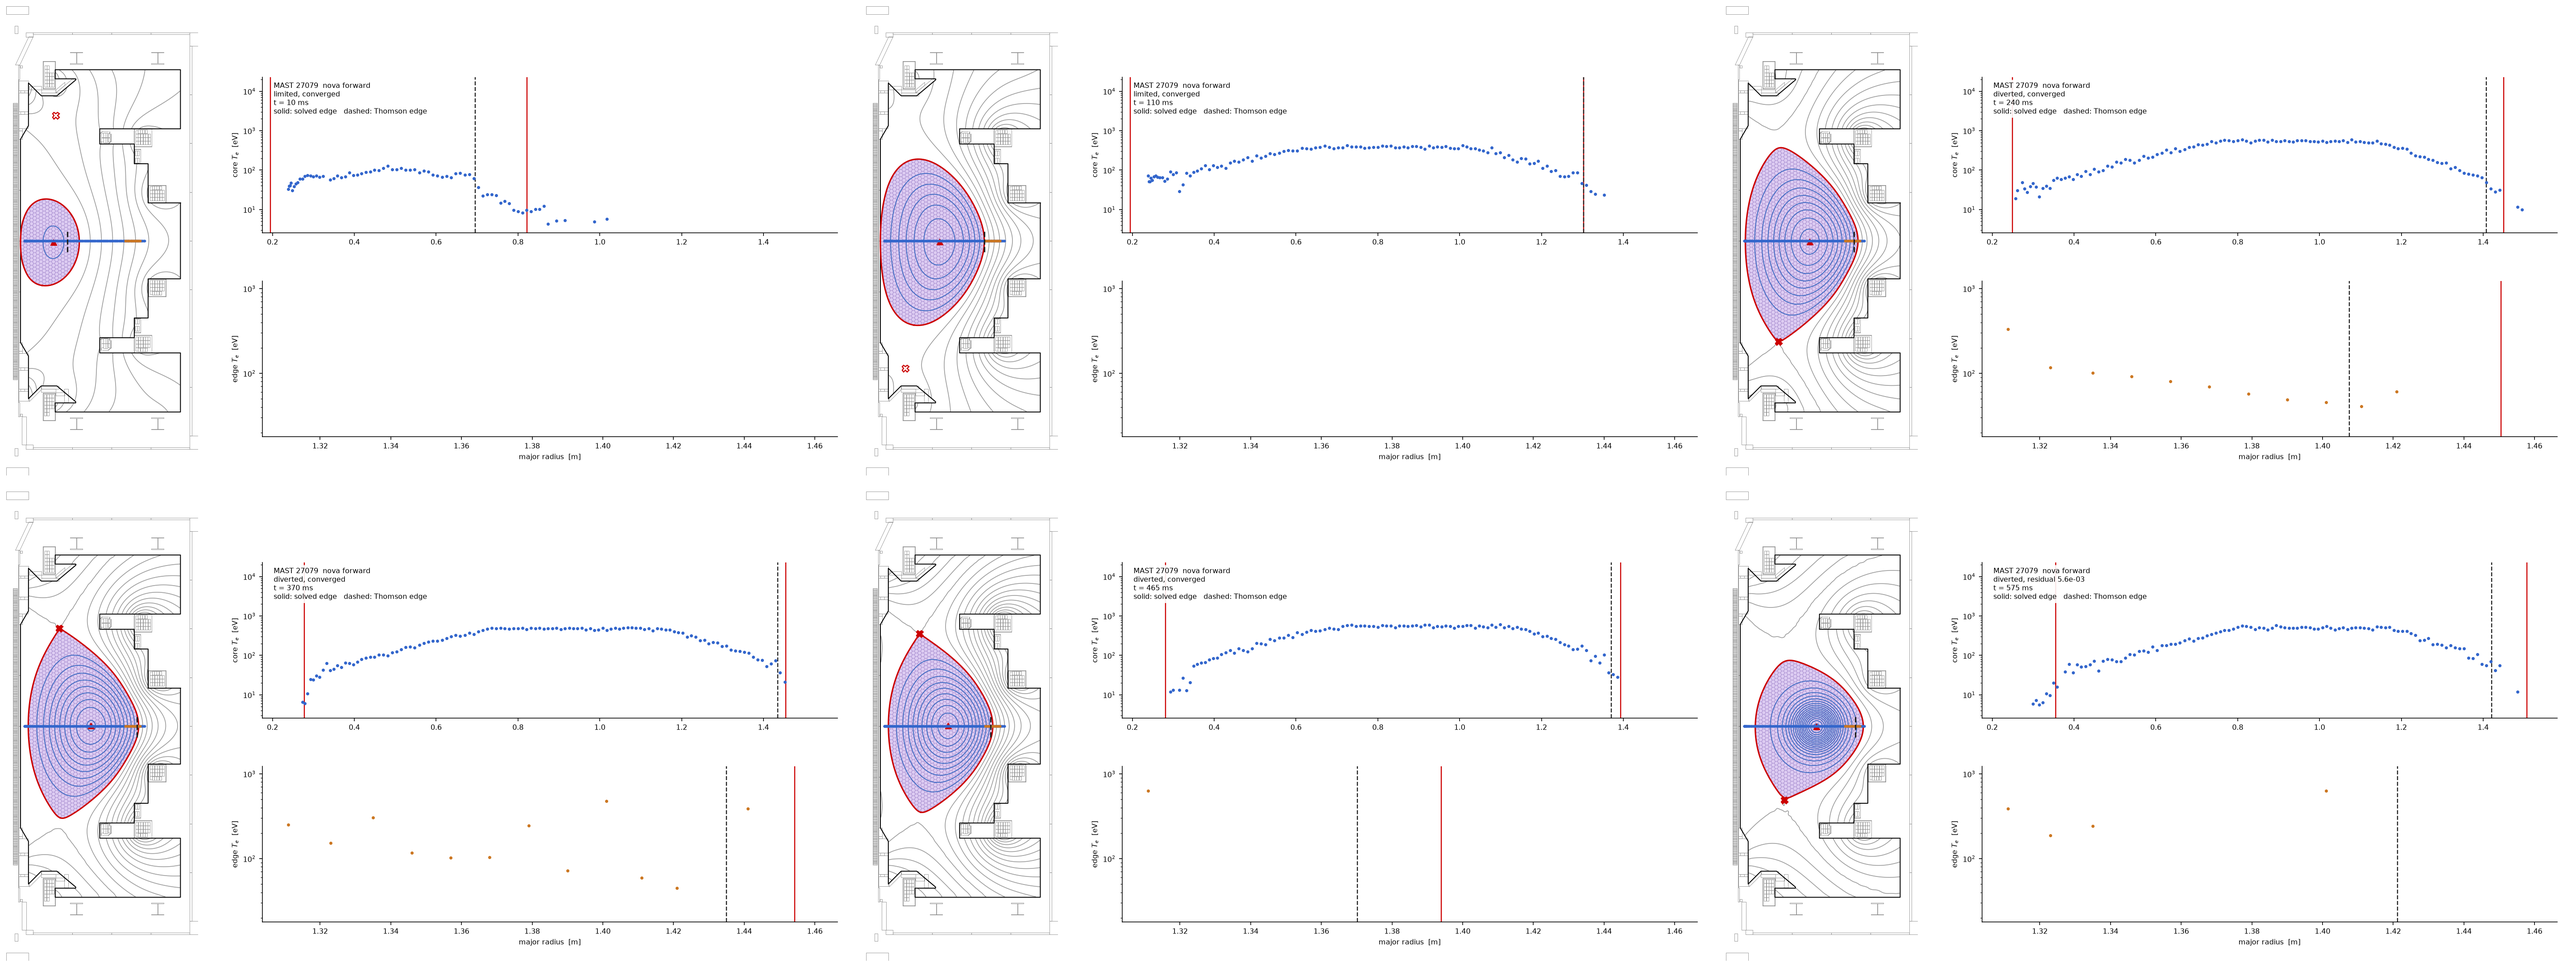
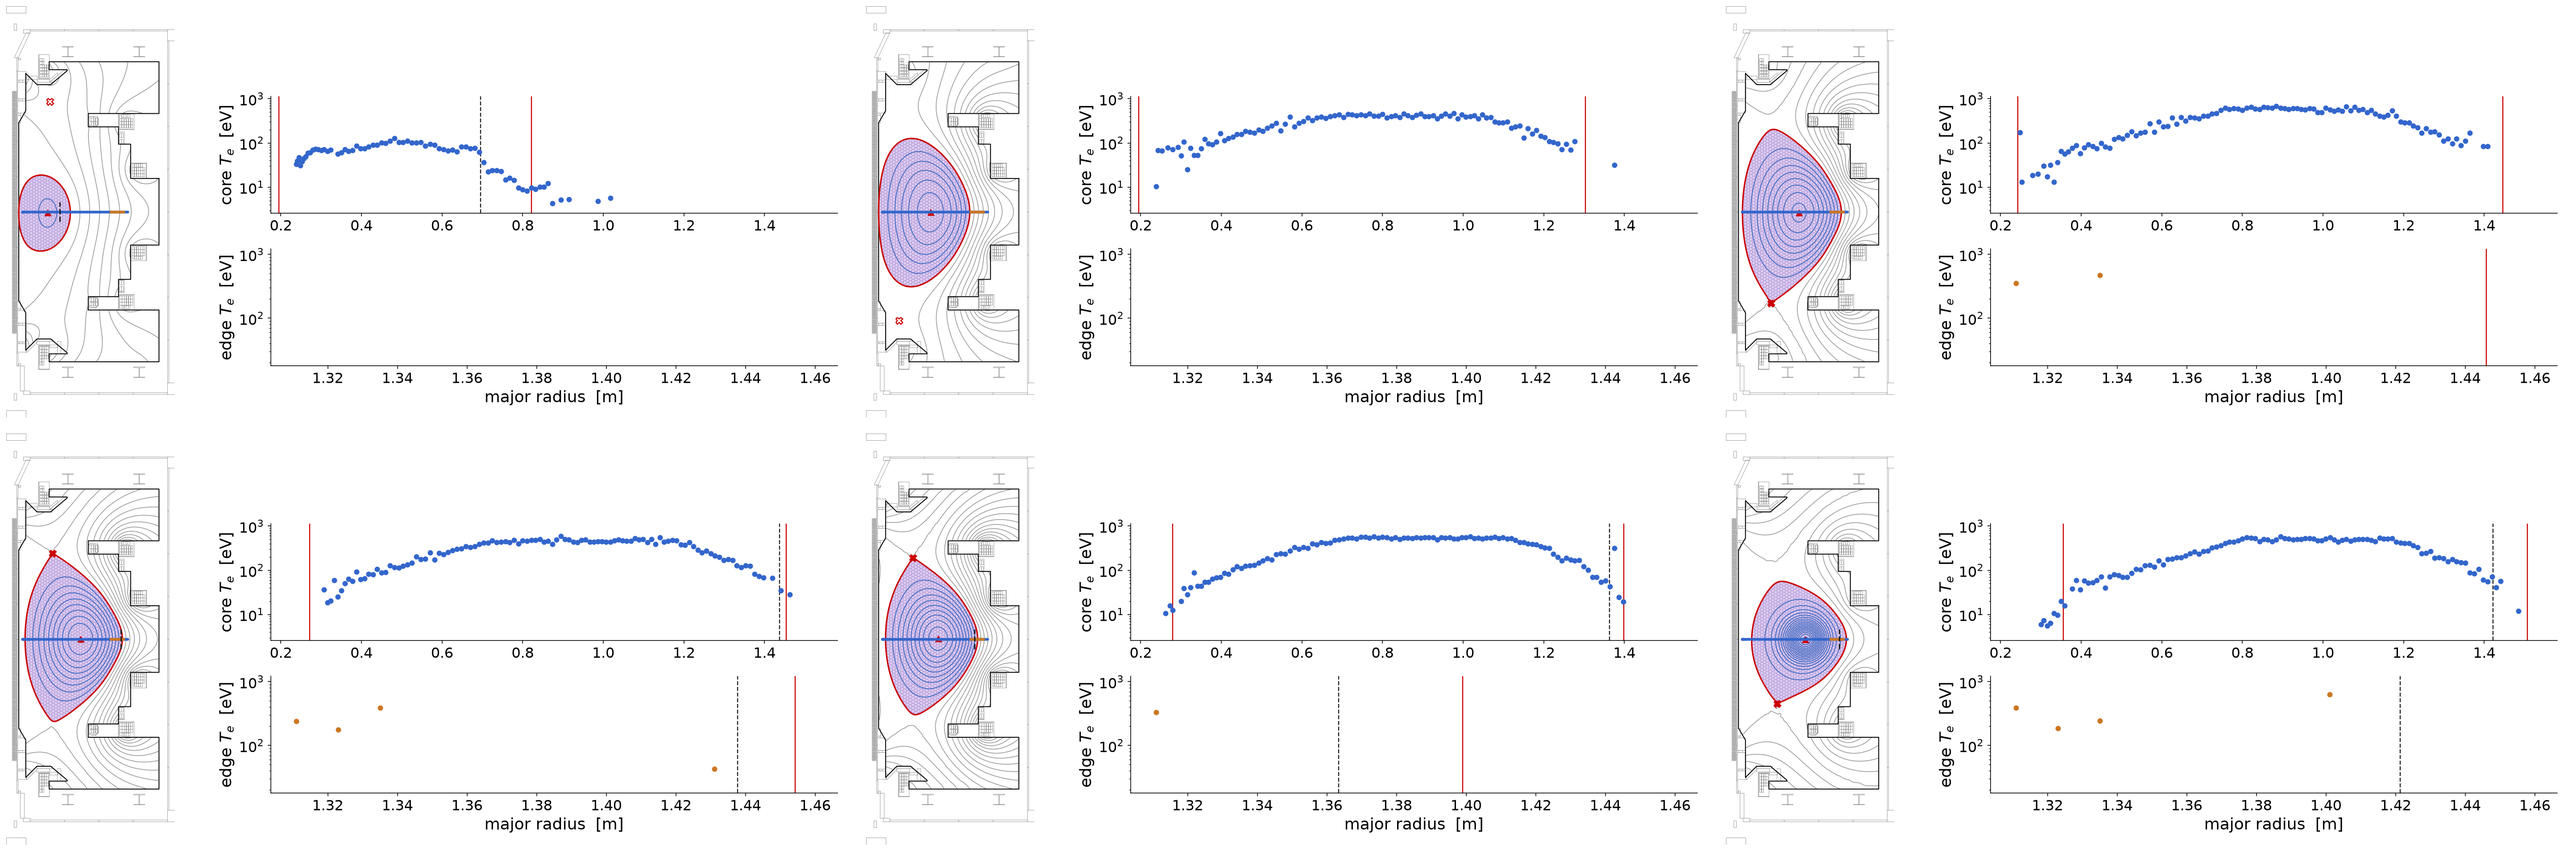
feat(media): presentation text sizes and no in-plot text in the 27079 Te animation
Axis labels are 18 pt and tick labels 16 pt, Thomson markers twice the
size. Every annotation inside the graphs is removed: the frames carry
only axes, ticks and data. The figure is the full 16:9 slide width and
6.6 in high, leaving a footer band below it, with 1.5 in above the graph
column for the slide title. 89 pinned slices, timed uniformly in pulse
time, 1920 x 950.

diff --git a/scripts/media/nova_thomson_gif.py b/scripts/media/nova_thomson_gif.py
@@ -52,12 +52,17 @@ FLUX_SPACING = 0.04
 CONTOUR_LINEWIDTH = 0.8
 BOUNDARY_LINEWIDTH = 1.6
 
-#: The widescreen presentation page, 16:9.
+#: The figure on a widescreen page: full slide width, 0.9 in short of the
+#: 16:9 height so the slide keeps a footer band below it.
 SLIDE_WIDTH = 13.333
-SLIDE_HEIGHT = 7.5
+SLIDE_HEIGHT = 6.6
+
+#: Text size on the slide, in points: legible from the back of a room.
+SLIDE_FONTSIZE = 18.0
+SLIDE_TICK_FONTSIZE = 16.0
 
 #: Room above the graph column for the slide title, in inches.
-TITLE_ROOM = 1.2
+TITLE_ROOM = 1.5
 
 
 def slide_view(extent, style):
@@ -72,7 +77,7 @@ def slide_view(extent, style):
     from nova.media.layout import ThreeView
 
     r_min, r_max, z_min, z_max = (float(value) for value in extent)
-    inset, gap, right, bottom, between = 0.1, 1.0, 0.3, 0.7, 0.75
+    inset, gap, right, bottom, between = 0.1, 1.5, 0.3, 0.9, 0.55
     panel_height = SLIDE_HEIGHT - 2 * inset
     panel_width = panel_height * (r_max - r_min) / (z_max - z_min)
     figure = matplotlib.figure.Figure(
@@ -162,7 +167,7 @@ def render_thomson(
 
     from nova.media.sources.pulse_forward import read_pulse_forward
 
-    style = DEFAULT_INK
+    style = replace(DEFAULT_INK, label_fontsize=SLIDE_FONTSIZE)
     if quantity not in _QUANTITIES:
         raise ValueError(
             f"unknown quantity {quantity!r}, not one of {list(_QUANTITIES)}"
@@ -229,12 +234,6 @@ def render_thomson(
         )
 
     scales = {string.name: pulse_scale(string) for string in strings}
-
-    # Headroom above the core profile for the frame annotation, so the text
-    # never sits on a measurement: a factor of twenty on the logarithmic axis.
-    core = strings[0].name
-    lower, upper = scales[core].y_limit
-    scales[core] = replace(scales[core], y_limit=(lower, upper * 20.0))
 
     # The measured edge comes from the electron temperature of every system
     # pooled, whichever quantity the panels show: it is one physical edge.
@@ -313,6 +312,8 @@ def render_thomson(
     def render(index: int) -> None:
         frame = frames[index]
         view.clear()
+        for axes in (view.upper, view.lower):
+            axes.tick_params(labelsize=SLIDE_TICK_FONTSIZE)
         pol.draw_plasma_cells(view.poloidal, clipped[index])
         plasma_contours.append(draw_flux(frame))
         pol.draw_coils(view.poloidal, machine.coils)
@@ -352,13 +353,14 @@ def render_thomson(
                 values,
                 color=colour[string.name],
                 style=style,
-                markersize=2.5,
+                markersize=5.0,
             )
             scales[string.name].apply(axes)
             tr.label_axes(
                 axes,
                 "major radius  [m]" if axes is view.lower else None,
                 f"{string.name} {label}  [{unit}]",
+                style=style,
             )
             if solved_edge:
                 # Where the solved boundary crosses this string's own chord.
@@ -377,18 +379,6 @@ def render_thomson(
                     linestyle="--",
                     zorder=1,
                 )
-        state = "converged" if frame.qualified else f"residual {frame.residual:.1e}"
-        topology = "diverted" if frame.diverted else "limited"
-        legend = (
-            "solid: solved edge   dashed: Thomson edge"
-            if solved_edge
-            else "dashed: Thomson edge"
-        )
-        tr.annotate_time(
-            view.upper,
-            f"MAST {shot}  nova forward\n{topology}, {state}\n"
-            f"t = {1e3 * frame.time:.0f} ms\n{legend}",
-        )
 
     # Equal pulse time per unit of animation time: each frame is held for the
     # gap to the next solved slice, scaled by the slowdown, so a missing slice
